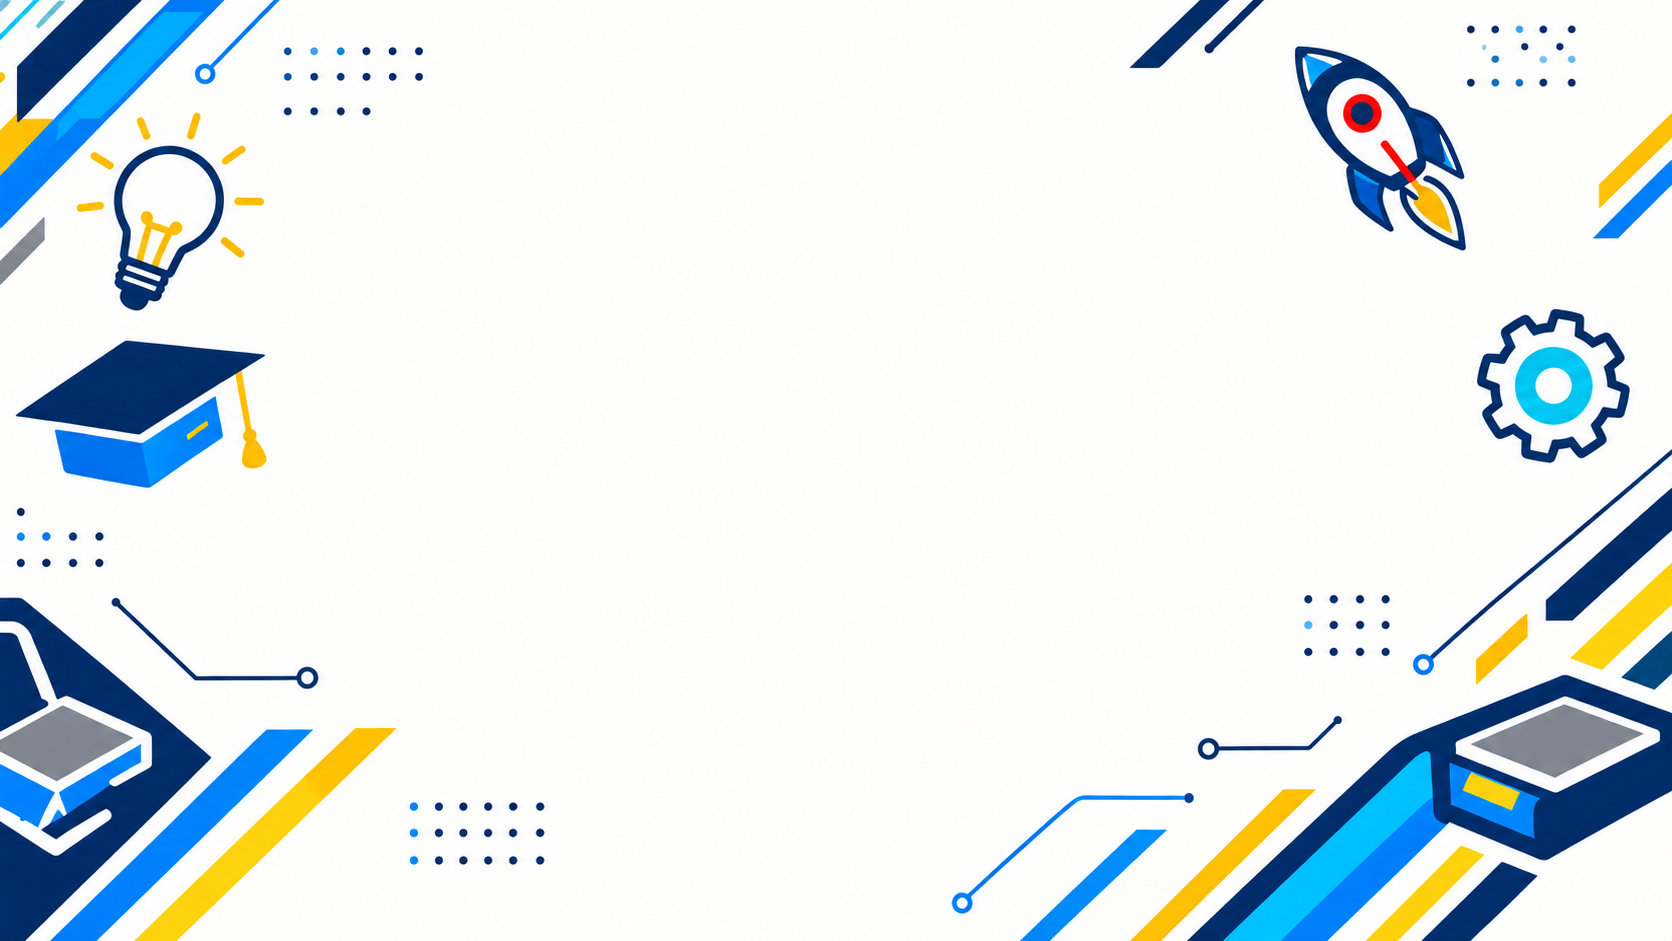
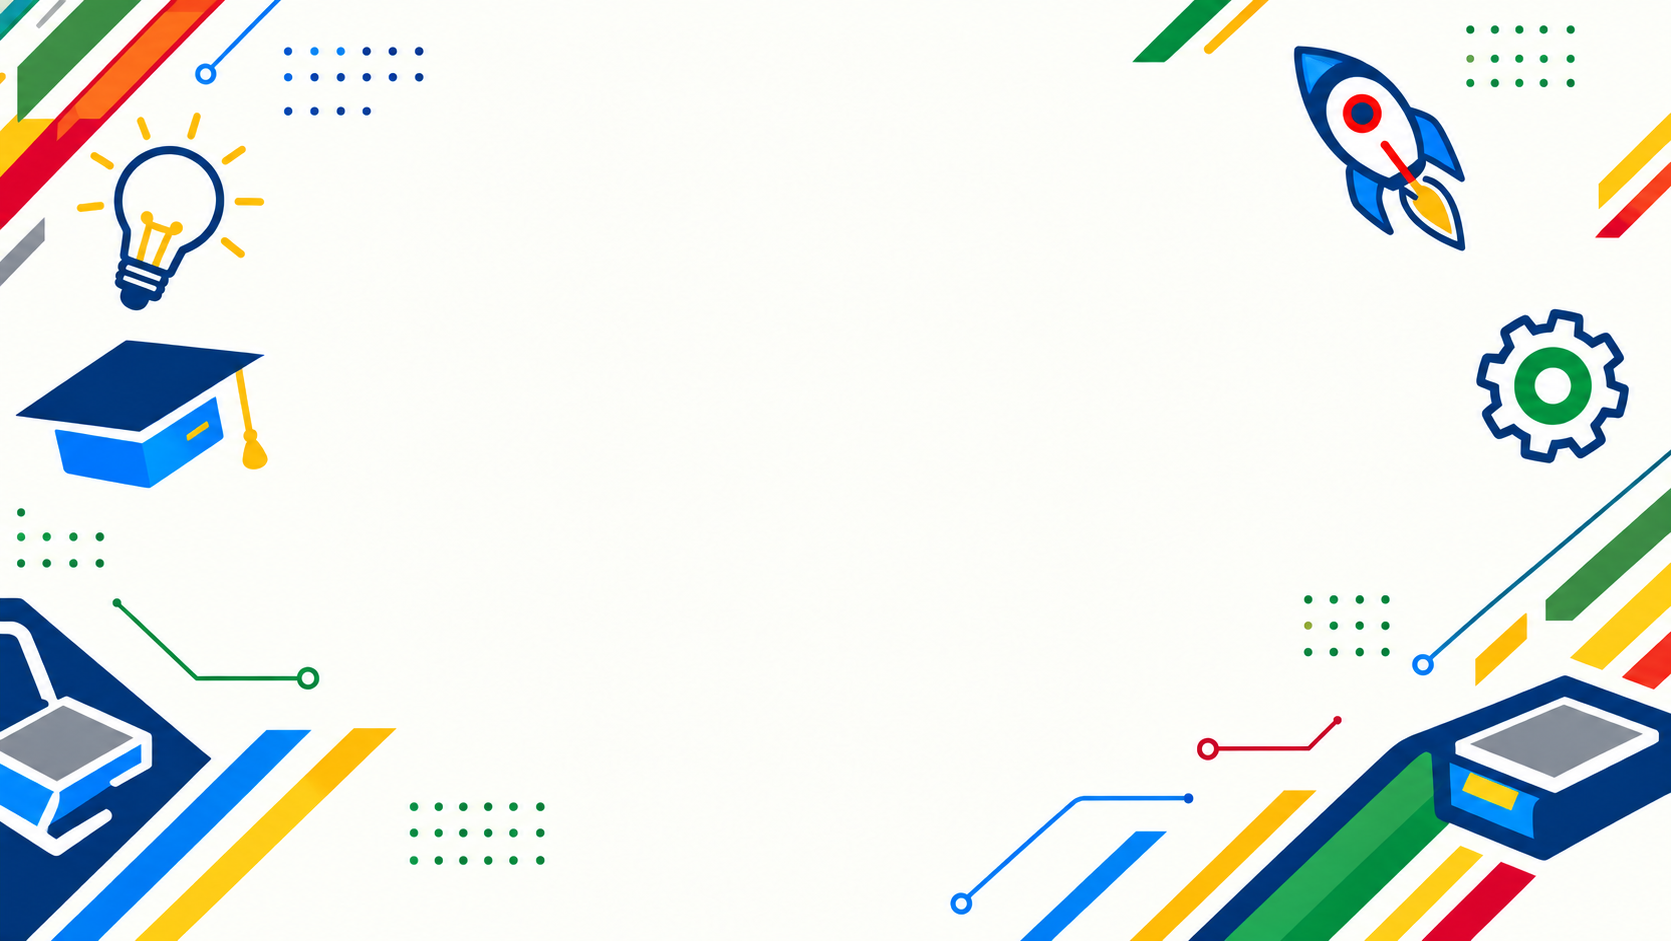
Modificação do body e criação da "caixa-sobre"

diff --git a/index.html b/index.html
@@ -25,6 +25,9 @@
             <main>
                 <div class="caixa-sobre">
                     <h2>O que é o Espaço CRIA?</h2>
+                    <p>O Espaço CRIA é um ambiente voltado para tecnologia, inovação, criatividade e desenvolvimento de projetos.
+                        É um espaço onde ideias podem sair do papel e se transformar em projetos, experiências e soluções. Aqui, os participantes têm a oportunidade de aprender na prática, explorar novas tecnologias, desenvolver habilidades e trabalhar de forma colaborativa.
+                        Mais do que aprender a utilizar ferramentas, o Espaço CRIA busca estimular a criatividade, a autonomia, a curiosidade e a capacidade de transformar problemas em novas possibilidades.</p>
                 </div>
             </main>
             <!-- Menu para Computadores -->

diff --git a/FRONTEND/css/style.css b/FRONTEND/css/style.css
@@ -54,7 +54,10 @@ main {
     margin-right: auto;
     margin-top: 20px;
     border: 4px solid transparent;
-    border-image: linear-gradient(70deg, rgb(0, 0, 198), red, green, , yellow) 1;}
+    border-image: linear-gradient(70deg, rgb(0, 0, 198), red, green, yellow) 2;
+    width: 800px;
+
+}
 
 .caixa-sobre h2 {
     text-align: center;
